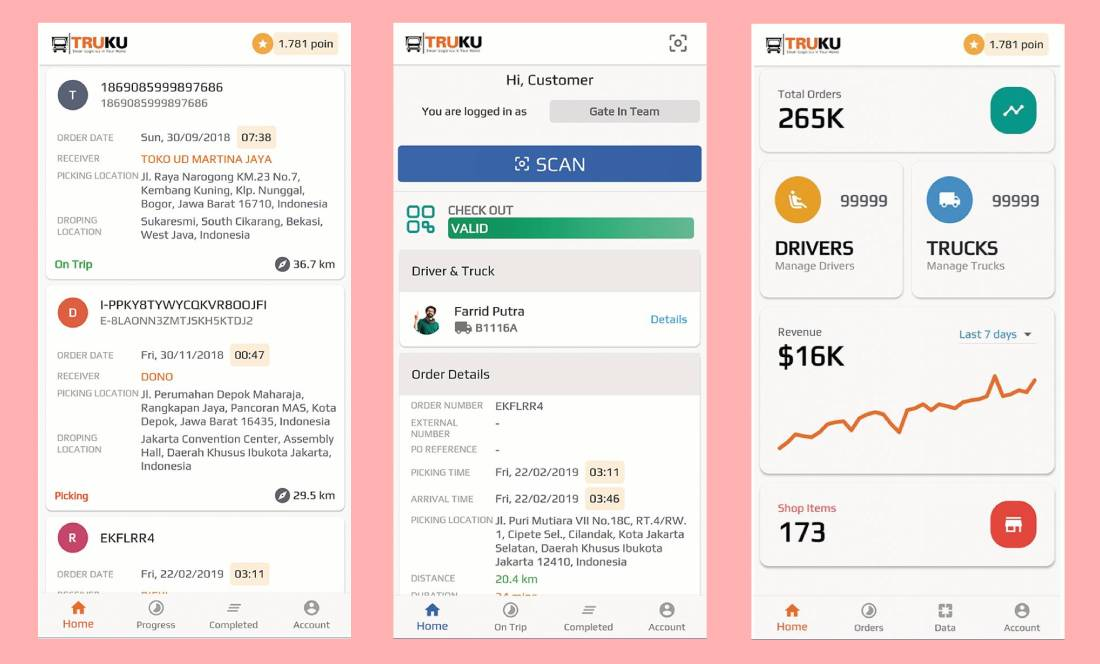
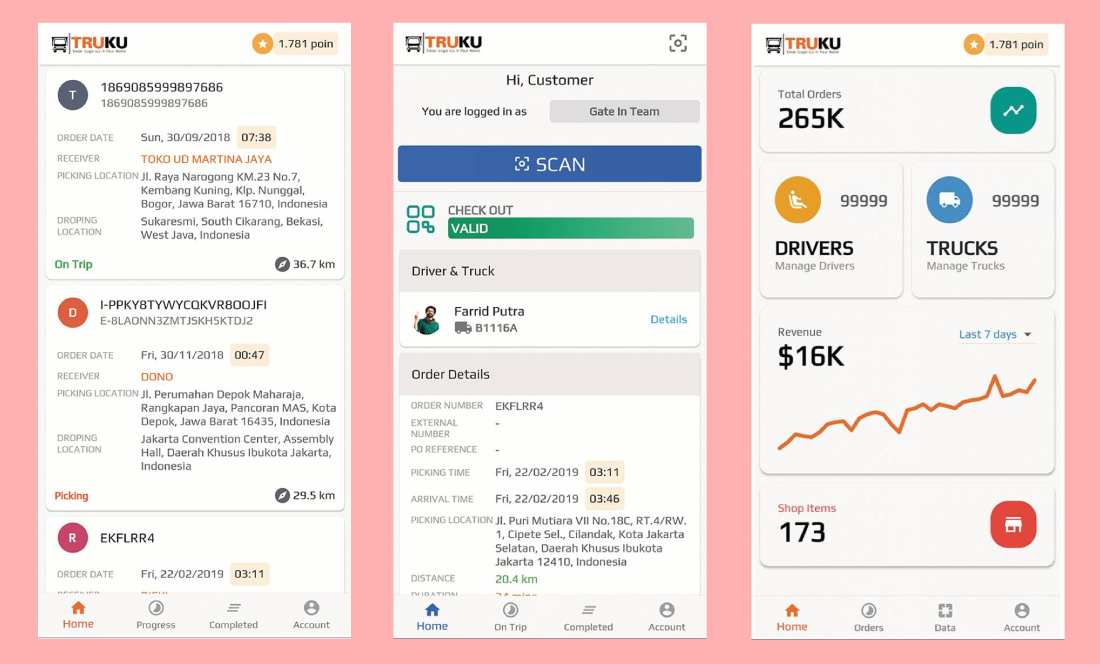
update truku portfolio

diff --git a/README.md b/README.md
@@ -116,7 +116,7 @@ solutions.
 
 ### Truku
 
-<img src="truku/truku_portofolio.jpg" alt="Truku Portofolio">
+<img src="truku/truku_portofolio.jpg" alt="Truku Portfolio">
 
 ---
 
@@ -129,13 +129,13 @@ solutions.
 
 ## Screenshots
 
-<img src="pmi/login.png" alt="PMI Login" width="240">
-<img src="pmi/home.png" alt="PMI Home" width="240">
-<img src="pmi/digital_id.png" alt="PMI Digital ID" width="240">
+<img src="pmi/login.png" alt="PMI Login" width="300">
+<img src="pmi/home.png" alt="PMI Home" width="300">
+<img src="pmi/digital_id.png" alt="PMI Digital ID" width="300">
 
-<img src="pmi/sos.png" alt="PMI SOS" width="240">
-<img src="pmi/news.png" alt="PMI News" width="240">
-<img src="pmi/profile.png" alt="PMI Profile" width="240">
+<img src="pmi/sos.png" alt="PMI SOS" width="300">
+<img src="pmi/news.png" alt="PMI News" width="300">
+<img src="pmi/profile.png" alt="PMI Profile" width="300">
 
 ---
 
@@ -167,15 +167,15 @@ solutions.
 
 ### Buma Driver
 
-<img src="truku/buma_driver_login.png" alt="Buma Driver Login" width="240">
-<img src="truku/buma_driver_home.png" alt="Buma Driver Home" width="240">
-<img src="truku/buma_driver_reservation.png" alt="Buma Driver Reservation" width="240">
+<img src="truku/buma_driver_login.png" alt="Buma Driver Login" width="300">
+<img src="truku/buma_driver_home.png" alt="Buma Driver Home" width="300">
+<img src="truku/buma_driver_reservation.png" alt="Buma Driver Reservation" width="300">
 
 ### Buma Smart Fleet
 
-<img src="truku/buma_customer_home.png" alt="Buma Customer Home" width="240">
-<img src="truku/buma_customer_scan.png" alt="Buma Customer Scan" width="240">
-<img src="truku/buma_customer_address.png" alt="Buma Customer Address" width="240">
+<img src="truku/buma_customer_home.png" alt="Buma Customer Home" width="300">
+<img src="truku/buma_customer_scan.png" alt="Buma Customer Scan" width="300">
+<img src="truku/buma_customer_address.png" alt="Buma Customer Address" width="300">
 
 ## Feedback
 
